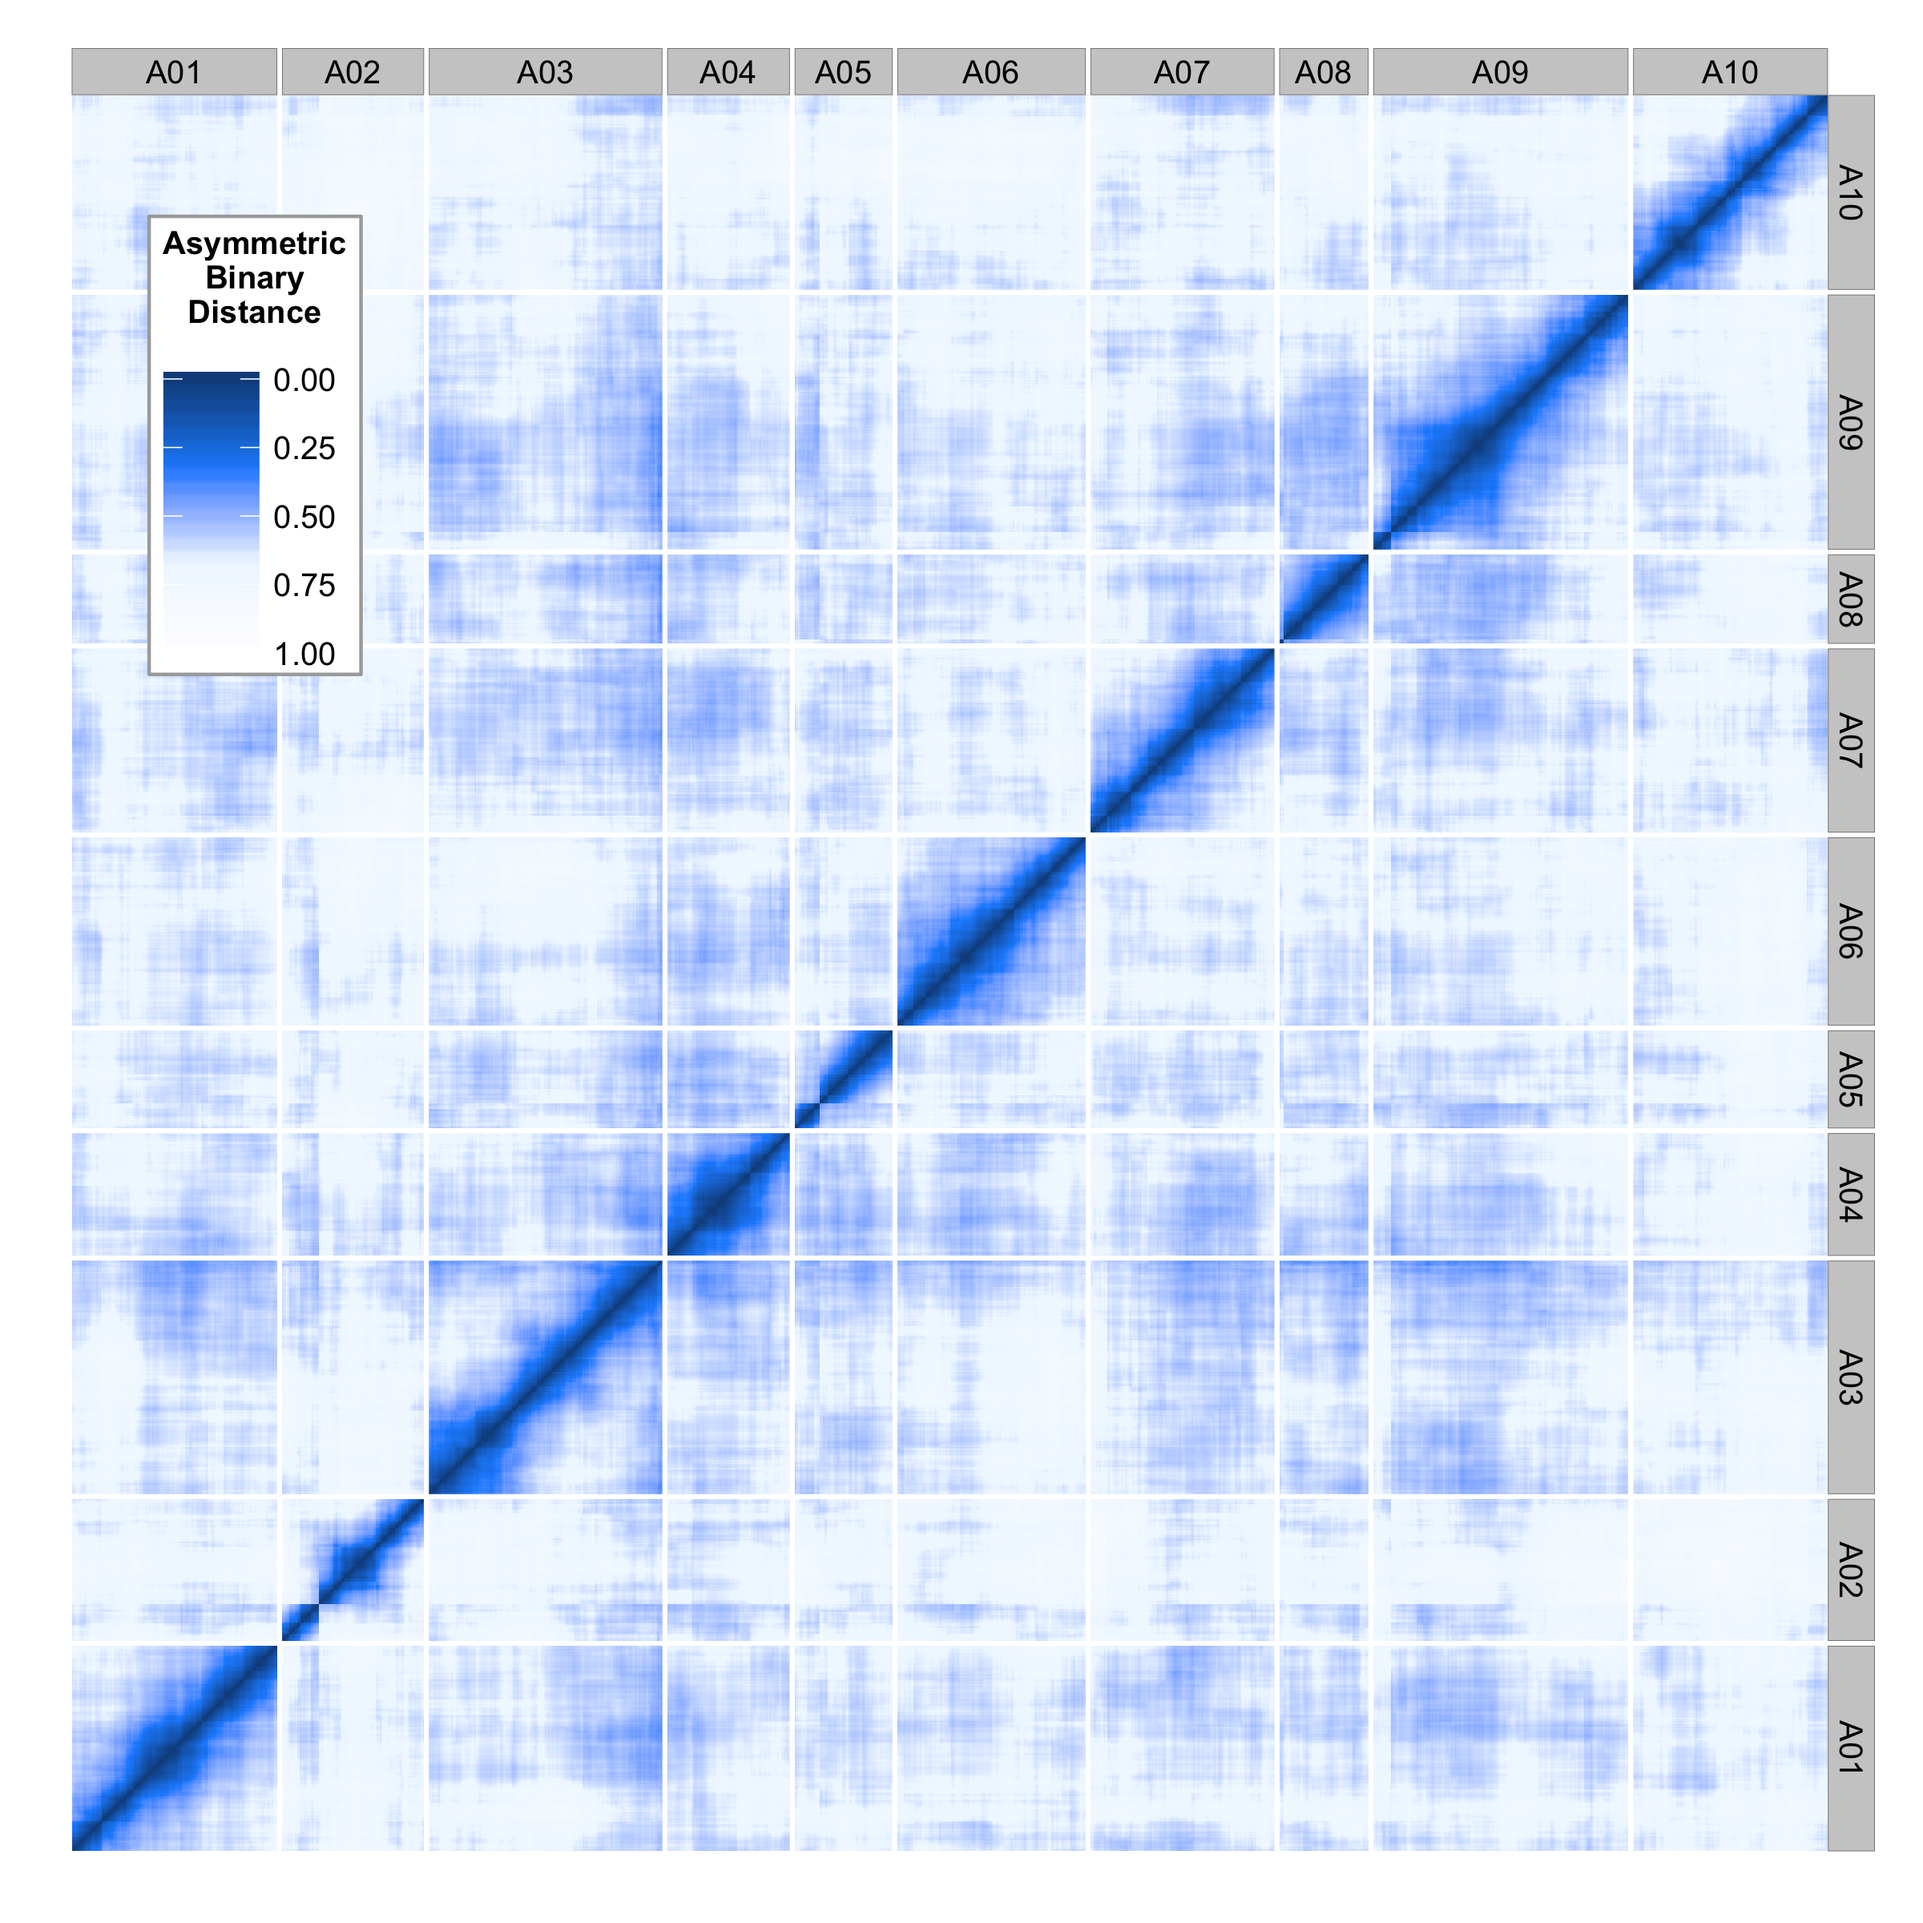
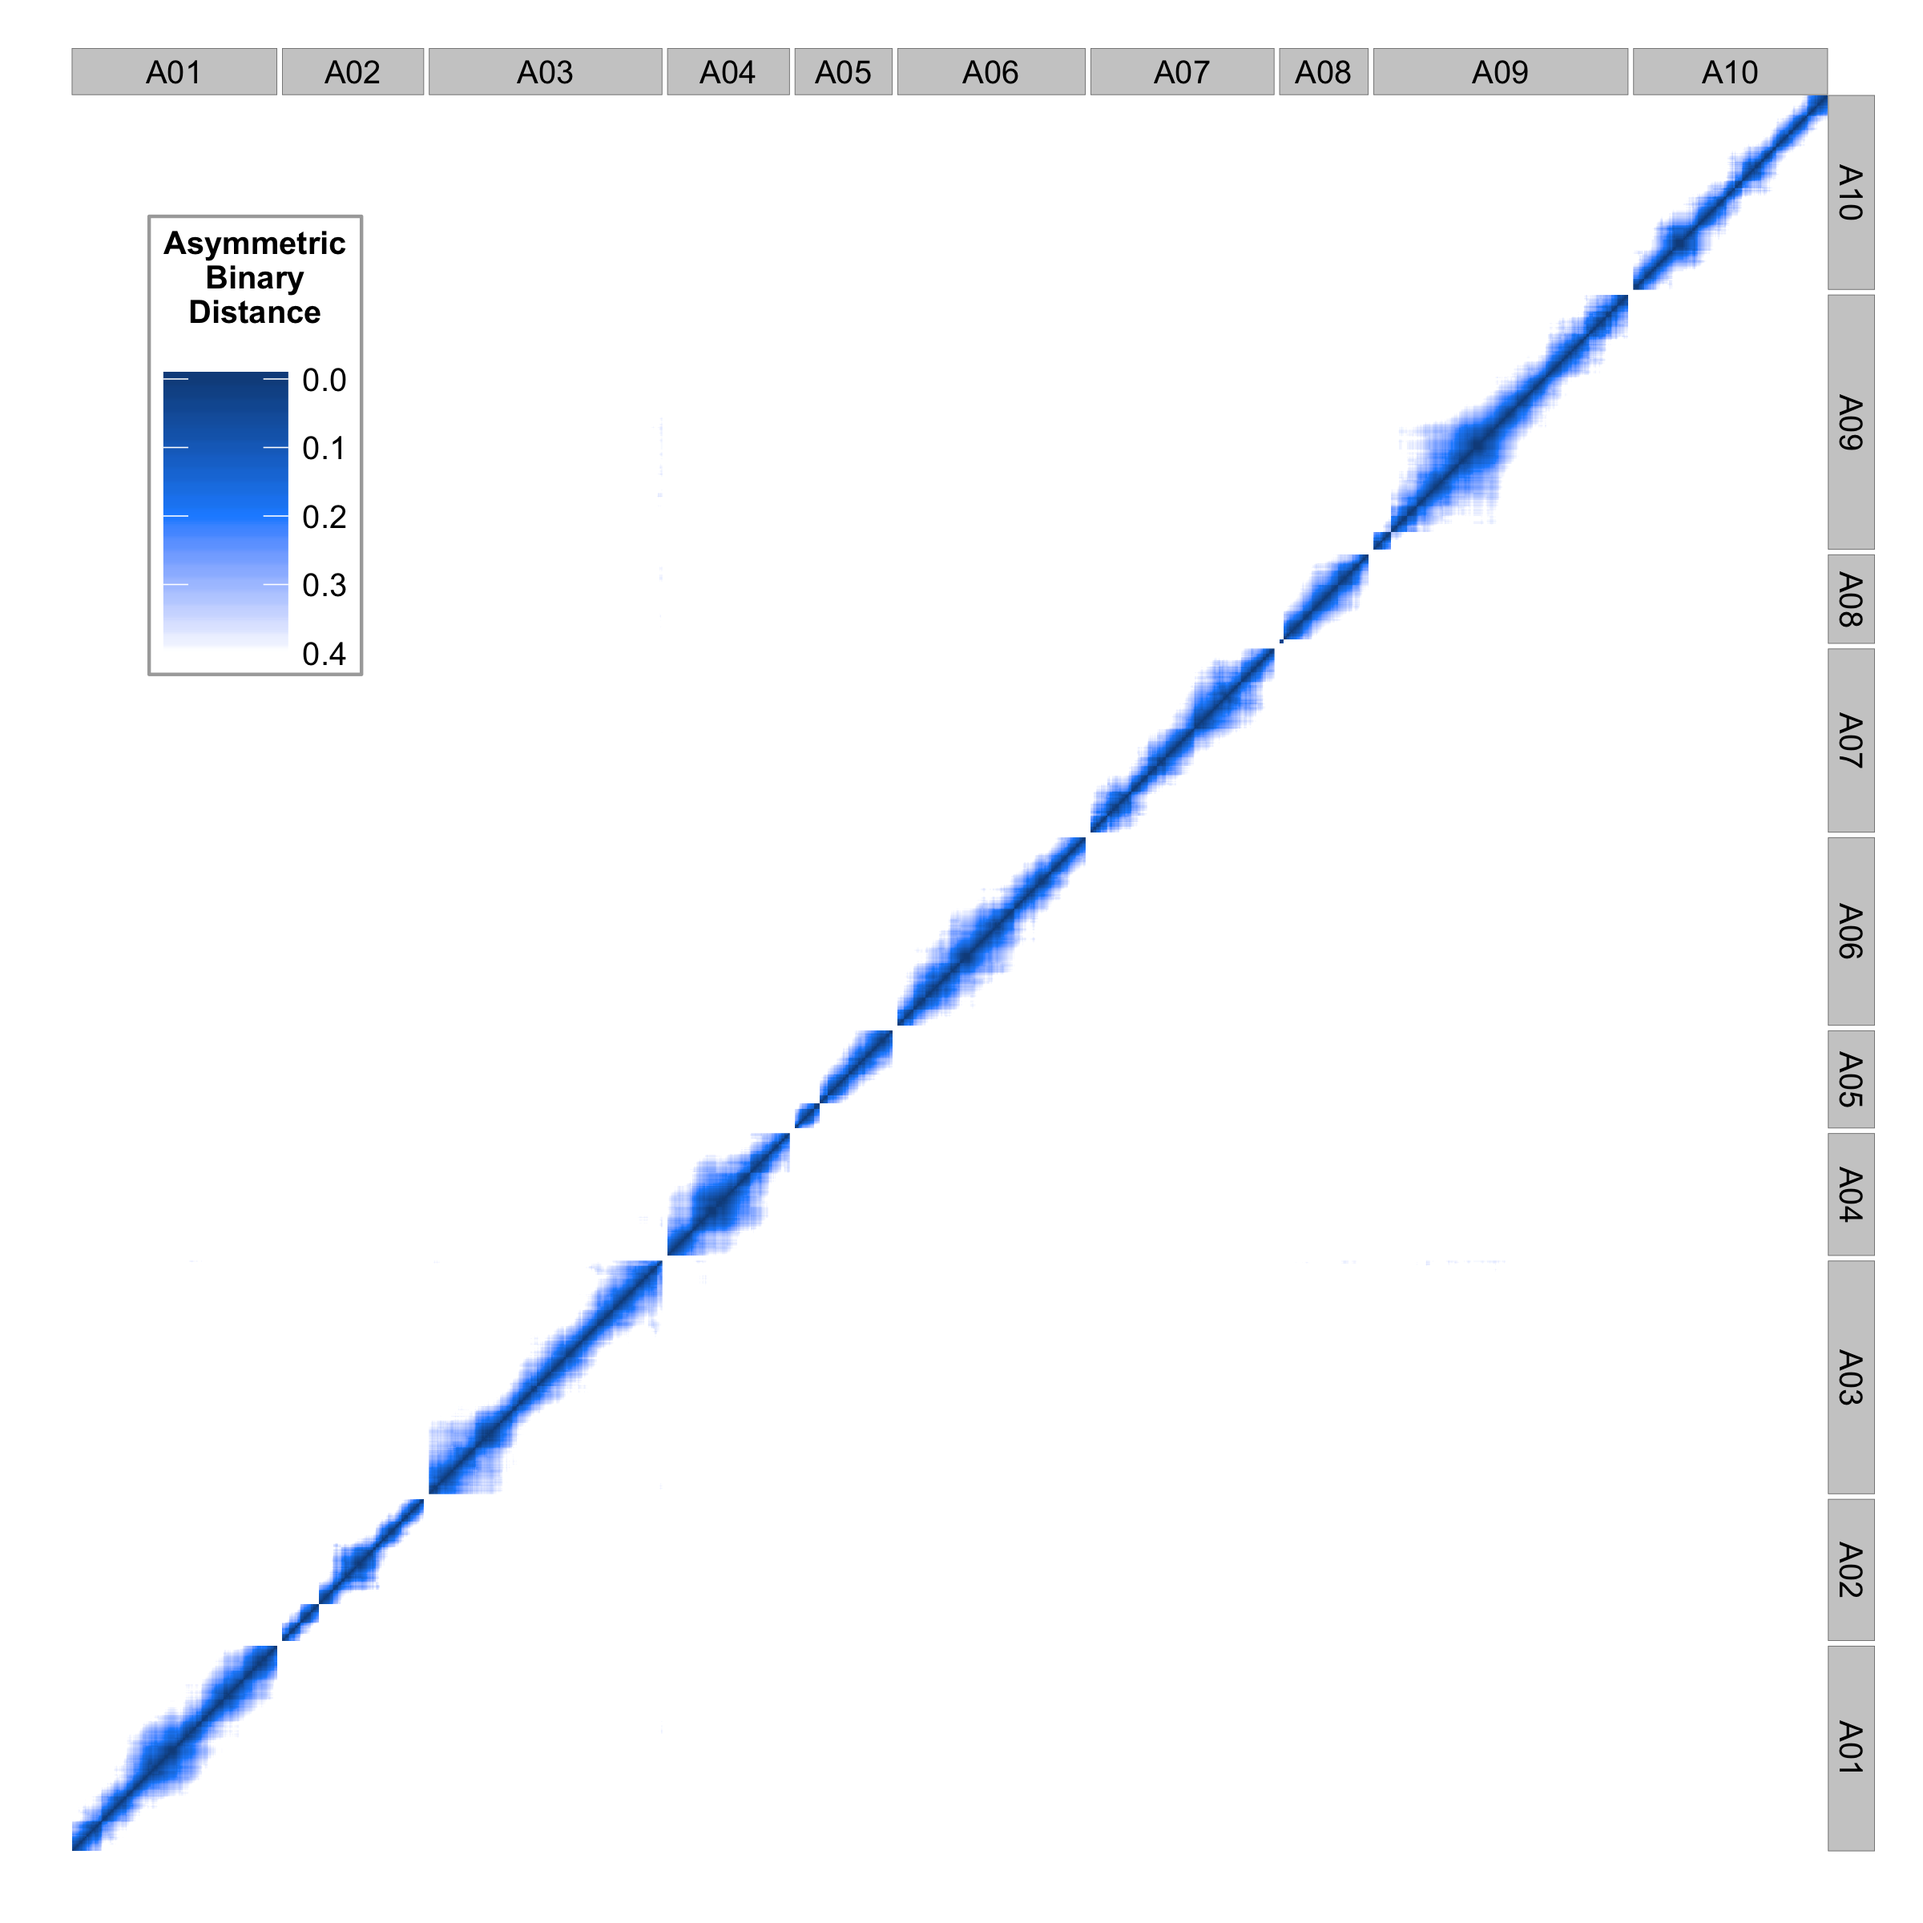
Adjust color scale of distance plot to get rid of background

diff --git a/docs/cluster-bins-by-genotype.md b/docs/cluster-bins-by-genotype.md
@@ -114,7 +114,7 @@ dist.melt$chr2 <- factor(dist.melt$chr2, levels = rev(levels(dist.melt$chr)))
 
 p <- ggplot(dist.melt, aes(x = idx, y = idx2)) +
        geom_tile(aes(fill = value)) +
-       scale_fill_gradientn(limits = c(0, 1), colours = c('dodgerblue4', 'dodgerblue', 'aliceblue', 'white')) +
+       scale_fill_gradientn(limits = c(0, 0.4), colours = c('dodgerblue4', 'dodgerblue', 'white'),  na.value = 'white') +
        facet_grid(chr2 ~ chr, scales = 'free', space = 'free') +
        theme_bw() +
        theme(
@@ -132,7 +132,7 @@ p <- ggplot(dist.melt, aes(x = idx, y = idx2)) +
          legend.position = c(0.025,0.95)
        ) +
        guides(
-         fill = guide_colorbar(barwidth = 2,
+         fill = guide_colorbar(barwidth = 2.6,
                                reverse = TRUE,
                                title = 'Asymmetric\nBinary\nDistance\n',
                                title.hjust = 0.5,
